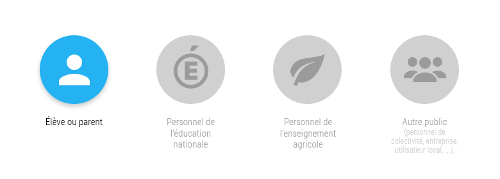
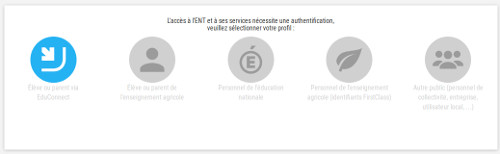
Corrections suite à modifications Médiacentre et Educonect

diff --git a/lycees.netocentre.fr/aide/AideENT/PortailENTConnexion.html b/lycees.netocentre.fr/aide/AideENT/PortailENTConnexion.html
@@ -22,38 +22,53 @@
             href="#choixProfil">Choix du profil utilisateur</a><br>
           <a title="Connexion à l'ENT" href="#connexionGuichetENT">Connexion sur
             le guichet d'authentification de l'ENT</a><br>
-          <a href="#connexionGuichetEN">Connexion sur le guichet de l'Éducation
+          <a title="Connexion sur le guichet Educonnect" href="#connexionGuichetEduconnect">Connexion sur
+            le guichet d'authentification Educonnect</a><br>
+          <a title="Connexion à l'ENT" href="#connexionGuichetENT">Connexion sur
+            le guichet d'authentification de l'ENT</a><br>
+          <a href="#connexionGuichetEN">Connexion sur le guichet des personnels de l'Éducation
             Nationale</a><br>
           <a title="Guichet d'authentification Educagri" href="#connexionGuichetAgri">
-            Connexion sur le guichet de l'Enseignement Agricole</a><br>
+            Connexion sur le guichet des personnels de l'Enseignement Agricole</a><br>
+          <a title="Connexion à l'ENT" href="#connexionGuichetENT">Connexion sur
+            le guichet d'authentification de l'ENT</a><br>
         </div>
         <hr>
         <h3><a id="choixProfil" name="choixProfil"></a>Choix du profil
           utilisateur</h3>
-        <p>Pour accéder aux services de l'ENT, il faut se connecter, soit en
+        <p>Pour accéder aux services de l'ENT, il faut se connecter en
           cliquant sur le bouton «&nbsp;<span style="font-style:italic;">Se
-            connecter</span>&nbsp;», à droite dans le bandeau ENT, soit en
-          ouvrant le menu et en cliquant sur le bouton «&nbsp;<span style="font-style:italic;">Se
-            connecter</span>&nbsp;».<br>
-          Guichet d'authentification de l'ENT La connexion au portail ENT dépend
+            connecter</span>&nbsp;», à droite dans le bandeau ENT.<br>
+          La connexion au portail ENT dépend
           du profil de l'utilisateur, c'est pourquoi ce profil est demandé en
           premier :</p>
-        <img title="Portail ENT avant authentification" alt="Portail ENT avant authentification"
+        <img title="Choix du profil" alt="Choix du profil"
           src="/aide/AideENT/images/waif.jpg"> </div>
       <div class="AEfloatClear">
+        <p>Les <a href ="#connexionGuichetEduconnect">élèves et parents d'élève d'un établissement de l'Éducation Nationale</a> s'authentifient sur
+          le guichet <a href ="#connexionGuichetEduconnect">Educonnect</a> proposé par l'Éducation Nationale.
         <p>Les <a href="#connexionGuichetEN">personnels de l'Éducation
             Nationale</a> et les <a title="Connexion au guichet Educagri" href="#connexionGuichetAgri">personnels
             de l'Enseignement Agricole</a> s'authentifient sur le guichet
           d'authentification de leur organisme de rattachement. </p>
         <p>Les <a title="Guichet d'authentification ENT" href="#connexionGuichetENT">autres
-            publics</a> (élèves, apprentis, maîtres de stage, personnels des
+            publics</a> (élèves et parents de l'enseignement agricole, apprentis, maîtres de stage, personnels des
           CFA, utilisateurs locaux, ...) s'authentifient sur le <a href="#connexionGuichetENT">guichet
             d'authentification de l'ENT</a>.</p>
-        Après avoir cliqué sur le logo correspondant à votre profil, il vous
+        Après avoir cliqué sur le logo correspondant à votre profil, si votre compte est activé sur le guichet d'authentification qui correspond à votre profil, il vous
         restera à saisir votre identifiant et votre mot de passe. </div>
       <hr>
       <div class="AEfloatClear">
-        <h3><a id="connexionGuichetENT" name="connexionENT"></a>Connexion sur le
+        <h3><a id="connexionGuichetEduconnect" name="connexionEduconnect"></a>Connexion sur le
+          guichet d'authentification Educonnect</h3>
+        <p>Les élèves et les parents d'élève des établissements de l'Éducation Nationale s'authentifiens sur le guichet Educonnect. C'est à partir de ce guichet
+        qu'ils peuvent accéder à la gestion de leur compte Educonnect, notamment à la recréation d'un mot de passe oublié.</p>
+        <p>Il est à noter que ce quichet permet aux parents de se connecter en utilisant le dispositif <a href="https://franceconnect.gouv.fr/" target="_blank">FranceConnect</a>.</p>
+        <img title="Guichet d'authentification Educonnect" alt="Guichet d'authentification Educonnect"
+          src="/aide/AideENT/images/connexionEduconnect.jpg">
+        <div class="AEfloatClear">
+          <hr>
+          <h3><a id="connexionGuichetENT" name="connexionENT"></a>Connexion sur le
           guichet d'authentification de l'ENT</h3>
         <p>Les identifiants des <font style="font-weight: bold;">autres profils
             utilisateur que les personnels de l'éducation nationale ou de l'enseignement agricole</font> sont gérés par l'ENT. C'est à partir de la page
@@ -63,7 +78,7 @@
           ou à la <a target="_DocENT" title="Initatialisation du compte ENT" href="/aide/AideENT/commun/activationCompte.html">réinitialisation</a>
           de son compte:</p>
         <img title="Guichet d'authentification de l'ENT" alt="Guichet d'authentification de l'ENT"
-          src="/aide/AideENT/images/connexionENT.jpg">
+          src="/aide/AideENT/images/connexionENT.jpg"></div>
         <div class="AEfloatClear">
           <hr>
           <h3><a id="connexionGuichetEN" name="connexionEN"></a>Connexion sur le
@@ -77,7 +92,7 @@
             src="/aide/AideENT/images/connexionEN.jpg"> </div>
         <div class="AEfloatClear">
           <hr>
-          <h3><a id="connexionGuichetAgri" name="connexionEN"></a>Connexion sur
+          <h3><a id="connexionGuichetAgri" name="connexionAgri"></a>Connexion sur
             le guichet d'authentification de l'Enseignement Agricole</h3>
           <p>Les personnels de l'Enseignement Agricole s'authentifient sur le
             guichet d'authentification Educagri en indiquant leur identifiant

diff --git a/touraine-eschool.fr/aide/AideENT/PortailENTConnexion.html b/touraine-eschool.fr/aide/AideENT/PortailENTConnexion.html
@@ -36,32 +36,29 @@
           Guichet d'authentification de l'ENT La connexion au portail ENT dépend
           du profil de l'utilisateur, c'est pourquoi ce profil est demandé en
           premier :</p>
-        <img title="Portail ENT avant authentification" alt="Portail ENT avant authentification"
+        <img title="Choix du profil" alt="Choix du profil"
           src="/aide/AideENT/images/waif.jpg"> </div>
       <div class="AEfloatClear">
+        <p>Les <a href ="#connexionGuichetEduconnect">élèves et parents d'élève d'un établissement de l'Éducation Nationale</a> s'authentifient sur
+          le guichet <a href ="#connexionGuichetEduconnect">Educonnect</a> proposé par l'Éducation Nationale.
         <p>Les <a href="#connexionGuichetEN">personnels de l'Éducation
             Nationale</a>
             s'authentifient sur le guichet
           d'authentification de leur organisme de rattachement. </p>
         <p>Les <a title="Guichet d'authentification ENT" href="#connexionGuichetENT">autres
-            publics</a> (élèves, apprentis, maîtres de stage, personnels des
-          CFA, utilisateurs locaux, ...) s'authentifient sur le <a href="#connexionGuichetENT">guichet
+            publics</a> (maîtres de stage, utilisateurs locaux, ...) s'authentifient sur le <a href="#connexionGuichetENT">guichet
             d'authentification de l'ENT</a>.</p>
-        Après avoir cliqué sur le logo correspondant à votre profil, il vous
-        restera à saisir votre identifiant et votre mot de passe. </div>
+            Après avoir cliqué sur le logo correspondant à votre profil, si votre compte est activé sur le guichet d'authentification qui correspond à votre profil, il vous
+            restera à saisir votre identifiant et votre mot de passe.</div>
       <hr>
       <div class="AEfloatClear">
-        <h3><a id="connexionGuichetENT" name="connexionENT"></a>Connexion sur le
-          guichet d'authentification de l'ENT</h3>
-        <p>Les identifiants des <font style="font-weight: bold;">autres profils
-            utilisateur</font> sont gérés par l'ENT. C'est à partir de la page
-          de connexion à l'ENT que l'utilisateur peut accéder à la recréation de
-          son <a target="_DocENT" title="Mot de passe oublié" href="/aide/AideENT/commun/motPassePerduSIENT.html">mot
-            de passe oublié</a>, à l'<a target="_DocENT" title="Initialisation du compte ENT" href="/aide/AideENT/commun/activationCompte.html">initialisation</a>
-          ou à la <a target="_DocENT" title="Initatialisation du compte ENT" href="/aide/AideENT/commun/activationCompte.html">réinitialisation</a>
-          de son compte:</p>
-        <img title="Guichet d'authentification de l'ENT" alt="Guichet d'authentification de l'ENT"
-          src="/aide/AideENT/images/connexionENT.jpg">
+        <h3><a id="connexionGuichetEduconnect" name="connexionEduconnect"></a>Connexion sur le
+          guichet d'authentification Educonnect</h3>
+        <p>Les élèves et les parents d'élève des établissements de l'Éducation Nationale s'authentifiens sur le guichet Educonnect. C'est à partir de ce guichet
+        qu'ils peuvent accéder à la gestion de leur compte Educonnect, notamment à la recréation d'un mot de passe oublié.</p>
+        <p>Il est à noter que ce quichet permet aux parents de se connecter en utilisant le dispositif <a href="https://franceconnect.gouv.fr/" target="_blank">FranceConnect</a>.</p>
+        <img title="Guichet d'authentification Educonnect" alt="Guichet d'authentification Educonnect"
+          src="/aide/AideENT/images/connexionEduconnect.jpg">
         <div class="AEfloatClear">
           <hr>
           <h3><a id="connexionGuichetEN" name="connexionEN"></a>Connexion sur le
@@ -72,7 +69,20 @@
             page qu'ils peuvent accéder à la recréation d'un <a target="_DocENT" title="Mot de pass oublié"
               href="/aide/AideENT/commun/motPassePerduSIEN.html">mot de passe oublié</a> :</p>
           <img title="Guichet d'authentification de l'Éducation Nationale" alt="Guichet d'authentification de l'Éducation Nationale"
-            src="/aide/AideENT/images/connexionEN.jpg"> </div>
+            src="/aide/AideENT/images/connexionEN.jpg"> 
+        <div class="AEfloatClear">
+          <hr>
+        <h3><a id="connexionGuichetENT" name="connexionENT"></a>Connexion sur le
+          guichet d'authentification de l'ENT</h3>
+        <p>Les identifiants des <font style="font-weight: bold;">autres profils
+            utilisateur</font> sont gérés par l'ENT. C'est à partir de la page
+          de connexion à l'ENT que l'utilisateur peut accéder à la recréation de
+          son <a target="_DocENT" title="Mot de passe oublié" href="/aide/AideENT/commun/motPassePerduSIENT.html">mot
+            de passe oublié</a>, à l'<a target="_DocENT" title="Initialisation du compte ENT" href="/aide/AideENT/commun/activationCompte.html">initialisation</a>
+          ou à la <a target="_DocENT" title="Initatialisation du compte ENT" href="/aide/AideENT/commun/activationCompte.html">réinitialisation</a>
+          de son compte:</p>
+        <img title="Guichet d'authentification de l'ENT" alt="Guichet d'authentification de l'ENT"
+          src="/aide/AideENT/images/connexionENT.jpg"></div>
       </div>
     </div>
   </body>

diff --git a/ent.netocentre.fr/aide/AideENT/commun/motPassePerduEduconnect.html b/ent.netocentre.fr/aide/AideENT/commun/motPassePerduEduconnect.html
@@ -1,0 +1,39 @@
+<!DOCTYPE html>
+<html lang="fr-fr">
+  <head>
+    <meta content="text/html; charset=utf-8" http-equiv="content-type">
+    <meta name="viewport" content="width=device-width, initial-scale=1">
+    <link type="text/css" rel="stylesheet" href="/aide/css/aideENT.css">
+    <link type="text/css" rel="stylesheet" href="/aide/css/domaineENT.css">
+    <link href="//fonts.googleapis.com/css?family=Roboto%7CRoboto+Slab%7CRoboto+Condensed"
+      rel="stylesheet" type="text/css">
+    <link rel="stylesheet" href="//fonts.googleapis.com/css?family=Roboto:300,400,500,700"
+      type="text/css">
+    <link rel="stylesheet" type="text/css" href="//fonts.googleapis.com/icon?family=Material+Icons">
+    <title>Mot de passe oublié - Identification Educonnect</title>
+  </head>
+  <body>
+    <div id="aideENT" class="AEtoutTexte">
+      <div class="AEfloatClear">
+        <div class="AEfilAriane"><a target="_DocENT" title="Retour à l'index de l'aide"
+            href="/aide/AideENT/indexAideENT.html">Aide ENT</a> &gt; <a target="_DocENT" title="Mot de passe perdu"
+            href="/aide/AideENT/motPassePerdu.html">Mot de passe oublié</a> &gt;
+          Identification Educonnect<br>
+          <hr></div>
+        <div class="AEfloatClear">
+          <p>Les élèves et parents d'élève de l'Éducation Nationale s'authentifient sur l'ENT
+            en utilisant le guichet d'authentification Educonnect de l'Éducation Nationale, avec leurs
+            identifiants Educonnect (ou FranceConnect pour les parents).<br>
+            Lorsqu'ils ont oublié leur mot de passe, ils peuvent en recréer un
+            en cliquant sur "<span style="font-style:italic;">Mot de passe perdu</span>" de la page
+            d'authentification Educonnect.</p>
+            <p>Lorsqu'ils ont oublié leur identifiant, ils peuvent le retrouver en
+            en cliquant sur "<span style="font-style:italic;">Identifiant perdu</span>" de cette même page
+            d'authentification Educonnect:</p>
+          <img title="Authentification Éducation Nationale" alt="Authentification Éducation Nationale"
+            src="/aide/AideENT/images/connexionEduconnect.jpg"><br>
+        </div>
+      </div>
+    </div>
+  </body>
+</html>

diff --git a/ent.netocentre.fr/aide/AideENT/commun/activationCompte.html b/ent.netocentre.fr/aide/AideENT/commun/activationCompte.html
@@ -34,9 +34,11 @@
         <div class="AEfloatClear">
           <p><span style="font-weight: bold">Note</span> : cette aide ne
             concerne que les publics qui s'authentifient sur le guichet
-            d'authentification de l'ENT, c'est à dire tous les publics excepté
-            les personnels de l'Éducation Nationale et les personnels de
-            l'Enseignement Agricole.</p>
+            d'authentification de l'ENT, c'est à dire tous les publics excepté :
+            <ul><li>les élèves et parents d'élèves de l'Éducation Nationale qui activent leur compte sur le guichet Educonnect</li>
+              <li>les personnels de l'Éducation Nationale et les personnels de
+            l'Enseignement Agricole qui utilisent leurs guichets respectifs.</li></ul>
+          </p>
           <p>Afin de compléter le profil des utilisateurs de l'ENT et leur
             permettre de saisir un mot de passe personnel qui assurera la
             sécurité de leur accès aux services de l'ENT, il est indispensable,
@@ -101,7 +103,7 @@
               procédure d'activation de son compte.</span></p>
           <hr>
           <h3><a id="activationEleve" name="activationEleve"></a>Procédure pour
-            un élève de collège ou de lycée </h3>
+            un élève de lycée agricole</h3>
           <h4>Procédure <span style="text-decoration: underline;">avec</span>
             utilisation d'une adresse de messagerie externe à l'ENT (recommandé)</h4>
           Si l'élève choisit de renseigner une adresse de messagerie personnelle
@@ -143,7 +145,7 @@
             votre identifiant et votre mot de passe personnel.</p>
           <hr>
           <h3><a id="ActivationAutresPublics" name="ActivationAutresPublics"></a>Procédure
-            pour les publics autres que les élèves de collège ou de lycée</h3>
+            pour les autres publics (hors parents de l'Éducation Nationale, personnels de l'Éducation Nationale ou de l'Enseignement Agricole)</h3>
           Les publics concernés sont les apprentis, les parents, les personnels
           des CFA, les personnels des collectivités, les maîtres
           d'apprentissage, les responsables d'entreprises, les utilisateurs

diff --git a/ent.netocentre.fr/aide/Mediacentre/indexAideMediacentre.html b/ent.netocentre.fr/aide/Mediacentre/indexAideMediacentre.html
@@ -38,22 +38,16 @@
             intermédiaires qui fournissent des ressources (le GAR est un de ces
             intermédiaires), et pour chacun d'eux il pourra y avoir des groupes
             spécifiques qui définissent les rôles nécessaires au fonctionnement
-            de la plateforme de l'intermédiaire. Dans tous les cas il devrait y
-            avoir à minima deux groupes permettant de définir : </p>
-          <ul>
-            <li><i>les utilisateurs qui auront accès au Médiacentre</i> dans
-              l'établissement : ce sont les membres du groupe "<b><i>Applications:Médiacentre:Intermédiaire:Établissement</i></b>"</li>
-            <li><i>les utilisateur</i> de l'établissement qui auront<i> un rôle
-                particulier</i> sur les services de la plateforme intermédiaire
-              : ce sont les membres du groupe "<b><i>Admin:Médiacentre:Intermédiaire:ROLE:Établissement</i></b>".</li>
-          </ul>
-          Toutes les personnes désignées dans l'un de ces groupes auront accès
-          au <i>Médiacentre</i>.
+            de la plateforme de l'intermédiaire. Les utilisateur de l'établissement qui auront un rôle
+            particulier sur les services de la plateforme intermédiaire
+            sont les membres du groupe "<b><i>Admin:Médiacentre:Intermédiaire:ROLE:Établissement</i></b>".</p>
+            <p>En attendant les évolutions du <i>Médiacentre</i> à d'autres ressources que celle du GAR, tous les élèves,
+              tous les enseignants et tous les professeurs documentalistes ont accès au <i>Médiacentre</i>.
           <p></p>
           <p>Le <i>Médiacentre</i> restera un outil très simple à utiliser. Il
             y a cependant certains aspects qu'il est nécessaire de comprendre
             pour pouvoir l'utiliser de façon satisfaisante, notamment pour <b>accéder
-              aux services d'affectation des ressources</b>. Les pages
+              aux services d'affectation des ressources du GAR</b>. Les pages
             ci-dessous vous fourniront les éléments nécessaires : </p>
         </div>
         <div class="AEfloatClear AEmenu"> <a href="GAR.html" title="GAR" target="_DocENT">Aide

diff --git a/ent.netocentre.fr/aide/Mediacentre/GAR.html b/ent.netocentre.fr/aide/Mediacentre/GAR.html
@@ -32,29 +32,12 @@
               et "<b>Établissement:Enseignements:DOCUMENTATION</b>",
               mais les établissements peuvent modifier sa composition pour
               l'adapter à leur contexte.</li>
-            <li>définir les utilisateurs pour lesquels les <em>Responsables
-                d'Affectation</em> auront à associer des ressources sur la
-              plateforme du GAR en peuplant le groupe "<b><i>Applications:Médiacentre:GAR:Établissement</i></b>"
-              ; ce sont les membres de ce groupe qui seront exportés sur la
-              plateforme du GAR</li>
             <li>attendre le jour suivant (les exports s'effectuent de nuit dans
               la phase d'expérimentation GAR) afin qu'un <i>Responsable
                 d'Affectation</i> puisse affecter les ressources aux
               utilisateurs sur la plateforme du GAR ; les nouvelles affectations
               seront aussitôt effectives pour les utilisateurs du <i>Médiacentre</i>.</li>
           </ul>
-          <p><span style="text-decoration:underline;font-weight:bold">Attention</span>
-            : l'affectation de ressources est définitive et ne pourra pas être
-            modifiée, une licence ne peut pas être transférée à un autre compte
-            après cette affectation. Seul un renouvellement des licences
-            ré-initialisera les affectations à moins que l'achat d'un complément
-            de licences permette de réaliser de nouvelles affectations.<br>
-            Il faudra donc faire très attention en début d'année scolaire afin
-            de n'associer des ressources qu'à des comptes définitifs pour ne pas
-            perdre inutilement une licence associée à un compte temporaire créé
-            suite à une saisie incomplète dans Siècle.<br>
-            Il est rappelé ici l'importance de bien renseigner les fiches des
-            élèves dans Siècle.</p>
         </div>
         <hr>
         <div class="AEfloatClear">

diff --git a/lycees.netocentre.fr/aide/AideENT/motPassePerdu.html b/lycees.netocentre.fr/aide/AideENT/motPassePerdu.html
@@ -28,9 +28,13 @@
           <br>
           Les procédures diffèrent en fonction du profil de l'utilisateur car
           les systèmes d'authentification leur sont propres. Actuellement, l'ENT
-          distingue 3 systèmes d'authentification et donc 3 systèmes différents
+          distingue 4 systèmes d'authentification et donc 4 systèmes différents
           de recréation d'un mot de passe :
           <ul>
+            <li> le <a title="Mot de passe perdu pour Educonnect"
+                href="/aide/AideENT/commun/motPassePerduEduconnect.html" target="_DocENT">système d'authentification Educonnect
+              </a> pour <span style="font-weight:bold;">tous
+                les élèves et parents des établissements de l'Éducation Nationale</span></li>
             <li> le <a title="Mot de passe perdu pour les personnels de l'Éducation Nationale"
                 href="/aide/AideENT/commun/motPassePerduSIEN.html" target="_DocENT">système d'authentification de
                 l'Éducation Nationale</a> pour <span style="font-weight:bold;">tous

diff --git a/touraine-eschool.fr/aide/AideENT/motPassePerdu.html b/touraine-eschool.fr/aide/AideENT/motPassePerdu.html
@@ -28,9 +28,13 @@
           <br>
           Les procédures diffèrent en fonction du profil de l'utilisateur car
           les systèmes d'authentification leur sont propres. Actuellement, l'ENT
-          distingue 2 systèmes d'authentification et donc 2 systèmes différents
+          distingue 3 systèmes d'authentification et donc 3 systèmes différents
           de recréation d'un mot de passe :
           <ul>
+            <li> le <a title="Mot de passe perdu pour Educonnect"
+                href="/aide/AideENT/commun/motPassePerduEduconnect.html" target="_DocENT">système d'authentification Educonnect
+              </a> pour <span style="font-weight:bold;">tous
+                les élèves et parents des établissements de l'Éducation Nationale</span></li>
             <li> le <a target="_DocENT" title="Mot de passe perdu pour les personnels de l'Éducation Nationale"
                 href="/aide/AideENT/commun/motPassePerduSIEN.html">système d'authentification de
                 l'Éducation Nationale</a> pour <span style="font-weight:bold;">tous
